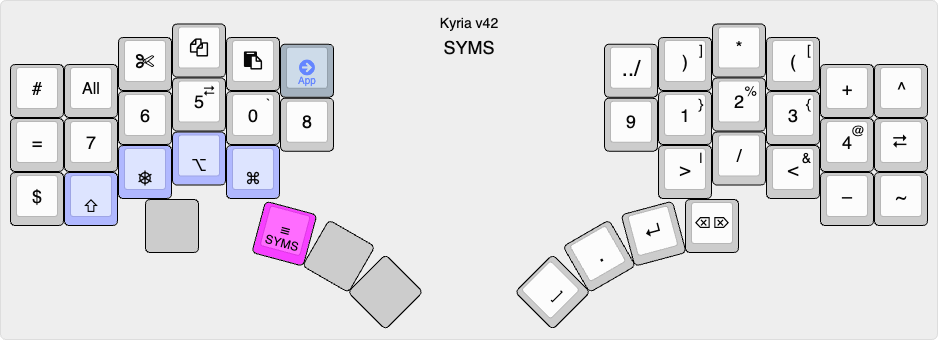
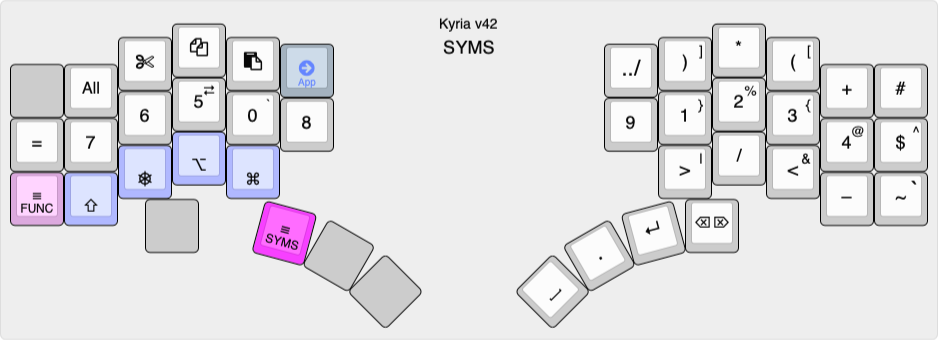
Refinements to layers

diff --git a/kyria-rsthd-prime/keymap.c b/kyria-rsthd-prime/keymap.c
@@ -51,7 +51,7 @@ const uint16_t PROGMEM keymaps[][MATRIX_ROWS][MATRIX_COLS] = {
                              KC_L,  KC_Y,  CU_COMM, KC_RSFT, CL_META_R,
 
         /* Thumbs */
-        CL_SYMS, KC_SPC, CU_REPT,    CU_SPCR, KC_E, CL_EDIT, CU_BSPC_DEL,
+        CL_SYMS, KC_SPC, CU_REPT,   KC_SPACE, KC_E, CL_EDIT, CU_BSPC_DEL,
 
         /* Encoder button */
         KC_MUTE
@@ -61,12 +61,12 @@ const uint16_t PROGMEM keymaps[][MATRIX_ROWS][MATRIX_COLS] = {
 /* SYMS
 
  ,-----------------------------------------.                        ,-----------------------------------------.
- |   #  |  All |  Cut | Copy | Paste| AppR |                        |  ../ | )  ] |   *  | (  [ |   +  |   ^  |
+ |      |  All |  Cut | Copy | Paste| AppR |                        |  ../ | )  ] |   *  | (  [ |   +  |   #  |
  |------+------+------+------+------+------|                        |------+------+------+------+------+------|
- |   =  |   7  | 6    | 5 Tab| 0  ` |   8  |                        |   9  | 1  } | 2  % | 3  { | 4  @ |  Tab |
+ |   =  |   7  |   6  | 5 Tab|   0  |   8  |                        |   9  | 1  } | 2  % | 3  { | 4  @ | $  ^ |
  |------+------+------+------+------+------'                        `------+------+------+------+------+------|
- |   $  |      |      |      |      |                                      | >  | |   /  | <  & |   -  |   ~  |
- |      | Shift| Ctrl |  Alt |  Cmd |                                      |      |      |      |      |      |
+ |      |      |      |      |      |                                      | >  | |   /  | <  & |   -  | ~  ` |
+ | FUNC | Shift| Ctrl |  Alt |  Cmd |                                      |      |      |      |      |      |
  `----------------------------------'                                      `----------------------------------'
 
  .                 ,------.      ,--------------------.  ,---------------------------.
@@ -77,17 +77,17 @@ const uint16_t PROGMEM keymaps[][MATRIX_ROWS][MATRIX_COLS] = {
 
     [SYMS] = KEY_LAYOUT_stack(
         /* Left hand */
-        KC_HASH,     SC_SELECT_ALL,  SC_CUT,   SC_COPY,  SC_PASTE,  CU_APPSWITCH_RIGHT,
+        ___X___,     SC_SELECT_ALL,  SC_CUT,   SC_COPY,  SC_PASTE,  CU_APPSWITCH_RIGHT,
         CU_EQL_EQL,  CU_7,           CU_6,     CU_5,     CU_0,      CU_8,
-        KC_DLR,      CU_SHIFT,       KC_LCTL,  KC_LALT,  KC_LGUI,
+        CL_FUNC,     CU_SHIFT,       KC_LCTL,  KC_LALT,  KC_LGUI,
 
         /* Right hand */
-                  CU_DIRUP, CU_RPRN,  KC_ASTR,       CU_LPRN,  KC_PLUS,       KC_CIRC,
-                  CU_9,     CU_1,     CU_2,          CU_3,     CU_4,          KC_TAB,
-                            CU_GT,    CU_SLSH_SLSH,  CU_LT,    CU_MINS_MINS,  KC_TILD,
+                  CU_DIRUP, CU_RPRN,  KC_ASTR,       CU_LPRN,  KC_PLUS,       KC_HASH,
+                  CU_9,     CU_1,     CU_2,          CU_3,     CU_4,          CU_DLR,
+                            CU_GT,    CU_SLSH_SLSH,  CU_LT,    CU_MINS_MINS,  CU_TILD,
 
         /* Thumbs */
-        _______, ___X___, ___X___,   CU_SPC_SPC, CU_DOT_DOT, CU_ENT_ENT, _______,
+        _______, ___X___, ___X___,   CU_SPC_SPC, CU_DOT_DOT, CU_ENT_ENT, CU_BSPC_DEL,
 
         /* Encoder button */
         ___X___
@@ -97,13 +97,13 @@ const uint16_t PROGMEM keymaps[][MATRIX_ROWS][MATRIX_COLS] = {
 /* EDIT
  
  ,-----------------------------------------.                        ,-----------------------------------------.
- | ScrR |  Tab | Home |  Up  |  End |FulScr|                        | AppR | Paste| Copy |  Cut |  All |DskTop|
+ | ScrL | PgUp | Home |  Up  |  End | ScrR |                        | AppR | Paste| Copy |  Cut |  All |DskTop|
  |------+------+------+------+------+------|                        |------+------+------+------+------+------|
- | WinR | PgUp | Left | Down | Right| TabR |                        |AppWin|      |      |      |      |Expose|
+ | WinR | PgDn | Left | Down | Right| TabR |                        |AppWin|      |      |      |      |Expose|
  |      |      |      |      |      |      |                        |      | Fast |  x4  | More |Delete|      |
  |------+------+------+------+------+------'                        `------+------+------+------+------+------|
- | AppR | PgDn | Undo | Space| Redo |                                      |      |      |      |      | SNAP |
- |      |      |      |      |      |                                      |  Cmd |  Alt | Ctrl | Shift|      |
+ | AppR |      | Undo | Space| Redo |                                      |      |      |      |      |      |
+ |      | Shift|      |      |      |                                      |  Cmd |  Alt | Ctrl | Shift| SNAP |
  `----------------------------------'                                      `----------------------------------'
  .
  .                 ,------.      ,--------------------.  ,---------------------------.
@@ -114,16 +114,16 @@ const uint16_t PROGMEM keymaps[][MATRIX_ROWS][MATRIX_COLS] = {
 
     [EDIT] = KEY_LAYOUT_stack(
         /* Left hand */
-        CU_SCREEN_RL,        KC_TAB,        CE_HOME,  CE_UP,    CE_END,    SC_FULLSCREEN,
-        CU_NEXT_WINDOW,      CE_PAGE_UP,  CE_LEFT,  CE_DOWN,  CE_RIGHT,  CU_TAB_RIGHT,
-        CU_APPSWITCH_RIGHT,  CE_PAGE_DOWN,    SC_UNDO,  KC_SPC,   SC_REDO,
+        SC_PREV_SCREEN,      CE_PAGE_UP,   CE_HOME,  CE_UP,    CE_END,    SC_NEXT_SCREEN,
+        CU_NEXT_WINDOW,      CE_PAGE_DOWN, CE_LEFT,  CE_DOWN,  CE_RIGHT,  CU_TAB_RIGHT,
+        CU_APPSWITCH_RIGHT,  CU_SHIFT,     SC_UNDO,  KC_SPC,   SC_REDO,
 
         /* Right hand */
                      CU_APPSWITCH_RIGHT,  SC_PASTE,  SC_COPY,  SC_CUT,   SC_SELECT_ALL, SC_REVEAL_DESKTOP,
                      SC_EXPOSE_APP,       CE_FAST,   CE_X4,    CE_MORE,  CE_DELETE,     SC_EXPOSE_ALL,
-                                          KC_RGUI,   KC_RALT,  KC_RCTL,  KC_RSFT,       CL_SNAP,
+                                          KC_RGUI,   KC_RALT,  KC_RCTL,  CU_SHIFT,      CL_SNAP,
         /* Thumbs */
-        CU_ENT_ENT, KC_BSPC, KC_DEL,   ___X___, ___X___, _______, ___X___,
+        CU_ENT_ENT, CU_BSPC_DEL, KC_DEL,   ___X___, ___X___, _______, ___X___,
 
         /* Encoder button */
         ___X___
@@ -133,7 +133,7 @@ const uint16_t PROGMEM keymaps[][MATRIX_ROWS][MATRIX_COLS] = {
 /* META
 
  ,-----------------------------------------.                        ,-----------------------------------------.
- |      |  Bin | Close|      | Find | BriU |                        | VolU |PrvTrk| Play |NxtTrk| Mute |      |
+ |      |  Bin | Close|      | Find | BriU |                        | VolU |PrvTrk| Play |NxtTrk| Mute |SysSet|
  |------+------+------+------+------+------|                        |------+------+------+------+------+------|
  | eXit |Reload| Save |newTab|      | BriD |                        | VolD |  New |      | Open |saveAs| Quit |
  |------+------+------+------+------+------'                        `------+------+------+------+------+------|
@@ -142,7 +142,7 @@ const uint16_t PROGMEM keymaps[][MATRIX_ROWS][MATRIX_COLS] = {
  `----------------------------------'                                      `----------------------------------'
 
  .                 ,------.      ,--------------------.  ,---------------------------.
- .                 |      |      |      | Btn1 | Btn2 |  |SysSet|      |      |      |
+ .                 |      |      |      | Btn1 | Btn2 |  | Btn2 | Btn1 |      |      |
  .                 |      |      | FUNC |      |      |  |      |      | SNAP |      |
  .                 `------'      `--------------------'  `---------------------------'
  */
@@ -154,12 +154,12 @@ const uint16_t PROGMEM keymaps[][MATRIX_ROWS][MATRIX_COLS] = {
         _______, CU_SHIFT,    SC_PRINT,     SC_PREV_SEARCH, SC_NEXT_SEARCH,
 
         /* Right hand */
-                 KC_VOLU,  KC_MPRV,         KC_MPLY,        KC_MNXT,          KC_MUTE,     ___X___,
+                 KC_VOLU,  KC_MPRV,         KC_MPLY,        KC_MNXT,          KC_MUTE,     SC_SYS_SETTINGS,
                  KC_VOLD,  SC_NEW,          ___X___,        SC_OPEN,          SC_SAVE_AS,  SC_QUIT,
                            SC_BROWSER_BACK, SC_BROWSER_FWD, SC_APP_SETTINGS,  CU_SHIFT,    _______,
 
         /* Thumbs */
-        CL_FUNC, CM_BTN1, CM_BTN2,   SC_SYS_SETTINGS, ___X___, CL_SNAP, ___X___,
+        CL_FUNC, CM_BTN1, CM_BTN2,   CM_BTN2, CM_BTN1, CL_SNAP, ___X___,
 
         /* Encoder button */
         ___X___
@@ -213,7 +213,7 @@ const uint16_t PROGMEM keymaps[][MATRIX_ROWS][MATRIX_COLS] = {
  `----------------------------------'                                      `----------------------------------'
 
  .                 ,------.      ,--------------------.  ,---------------------------.
- .                 |  Z0  |      |      | Btn1 | Btn2 |  |      | !WIPE|      |      |
+ .                 |  Z0  |      |MvPrev|FulScr|MvNext|  |      | !WIPE|      |      |
  .                 |      |      |      |      |      |  |      |      | (**) |      |
  .                 `------'      `--------------------'  `---------------------------'
 */
@@ -230,7 +230,7 @@ const uint16_t PROGMEM keymaps[][MATRIX_ROWS][MATRIX_COLS] = {
                           KC_RGUI,         KC_RALT,         KC_RCTL,            KC_RSFT,         _______,
 
         /* Thumbs */
-        ___X___, CM_BTN1, CM_BTN2,   ___X___, CU_WIPE, _______, ___X___,
+        SC_MOVETO_PREV_SCREEN, SC_FULLSCREEN, SC_MOVETO_NEXT_SCREEN,   ___X___, CU_WIPE, _______, ___X___,
 
         /* Encoder button */
         SC_APP_ZOOM_RESET

diff --git a/common/process.c b/common/process.c
@@ -188,15 +188,6 @@ bool process_record_user_emit(uint16_t keycode, keyrecord_t *record) {
             return false;
             break;
 
-        case CU_SPCR:
-            if (record->event.pressed) {
-                register_code(KC_SPC);
-            } else {
-                unregister_code(KC_SPC);
-            }
-            return false;
-            break;
-
             /* Switch between applications (like Alt-Tab on Windows or Cmd-Tab on macOS) This must be triggered from
              * a layer so the release event is called from layer_state_set_user() when the layer is released.
              */

diff --git a/common/os_shortcut_defs.h b/common/os_shortcut_defs.h
@@ -103,6 +103,9 @@ DEFINE_SHORTCUT( SNAP_LEFTTWOTHIRDS,   C(A(KC_E)),  KC_NO,     KC_NO )       // 
 DEFINE_SHORTCUT( SNAP_MIDTWOTHIRDS,    C(A(KC_X)),  KC_NO,     KC_NO )       // * Snap to middle two-thirds of screen
 DEFINE_SHORTCUT( SNAP_RIGHTTWOTHIRDS,  C(A(KC_T)),  KC_NO,     KC_NO )       // Snap to right two-thirds of screen
 
+DEFINE_SHORTCUT( MOVETO_NEXT_SCREEN,     G(A(C(KC_RGHT))),  KC_NO,     KC_NO )   // Move window to next screen
+DEFINE_SHORTCUT( MOVETO_PREV_SCREEN,     G(A(C(KC_LEFT))),  KC_NO,     KC_NO )   // Move window to previous screen
+
 /**
  * Window/tab navigation
  */

diff --git a/common/shift_defs.h b/common/shift_defs.h
@@ -44,7 +44,8 @@ DEFINE_SHIFT( CU_LPRN,   KC_LPRN, KC_LBRC )
 DEFINE_SHIFT( CU_RPRN,   KC_RPRN, KC_RBRC )
 DEFINE_SHIFT( CU_LT,     KC_LABK, KC_AMPR )
 DEFINE_SHIFT( CU_GT,     KC_RABK, KC_PIPE )
-DEFINE_SHIFT( CU_CIRC,   KC_CIRC, KC_TILD )
+DEFINE_SHIFT( CU_DLR,    KC_DLR,  KC_CIRC )
+DEFINE_SHIFT( CU_TILD,   KC_TILD, KC_GRV )
 
 // Keys that are the same whether shifted or not
 DEFINE_SHIFT( CU_DOT_DOT,    KC_DOT,  KC_DOT )

diff --git a/common/combo_defs.h b/common/combo_defs.h
@@ -141,4 +141,6 @@ LtoR_LIT( parensemi, ");", CU_LT,        CU_GT )   _ONSHIFT( parensemi )
 LtoR_LIT( eql_gt,    "=>", CU_MINS_MINS, CU_GT)    _ONSHIFT( eql_gt )
 
 LtoR_LIT( htmlcomment, "<!--", CU_MINS_MINS, CU_LT)
+LtoR_LIT( code, "```", CU_MINS_MINS, CU_SLSH_SLSH)
+
 //LtoR_LIT( tildeslash,  "~/",   CU_MINS_MINS, CU_SLSH_SLSH)

diff --git a/common/keycodes.h b/common/keycodes.h
@@ -36,7 +36,6 @@ enum custom_keycodes {
     CU_WRITE, // Save current state to EEPROM
 
     CU_DIRUP, // Move up a directory
-    CU_SPCR,  // Custom space for right thumb
 
     CU_REPT,  // Repeat the next character (or comboroll)
 

diff --git a/kyria-rsthd-prime/README.md b/kyria-rsthd-prime/README.md
@@ -125,7 +125,7 @@ Activated by either pinky.
 
 This layer contains common shortcuts, mostly arranged according to the letter used in the Mac/Windows shortcut. For example, the S key invokes Save (Cmd-S on Mac, Ctrl-S on Windows). However, the mapping is not always that straightforward (e.g. Cmd-Q on Mac and Alt-F4 on Windows), hence the use of a dedicated layer.
 
-This layer also contains media control keys and the keys to access the FUNC and SNAP layers.
+This layer also contains media control keys and the keys to access the FUNC and SNAP layers, as well as mouse buttons.
 
 The encoder is used for forward and backward search.
 
@@ -145,7 +145,7 @@ Activated by the right thumb from the META layer.
 
 So called because of the keys for window snapping, which snap the active window to various locations on the screen. This works on macOS if [Rectangle Pro](https://rectangleapp.com) is running; it is not working at all on Windows and Linux yet.
 
-It also contains shortcuts for screenshots and for window zooming, as well as mouse buttons.
+It also contains shortcuts for screenshots and for window zooming.
 
 The encoder zooms the current application. If a modifier is held, it adjusts the OLED brightness and the backlight/per-key LEDs, depending on the modifier. There are also two keys on the left hand for this, in case there is no encoder.
 
